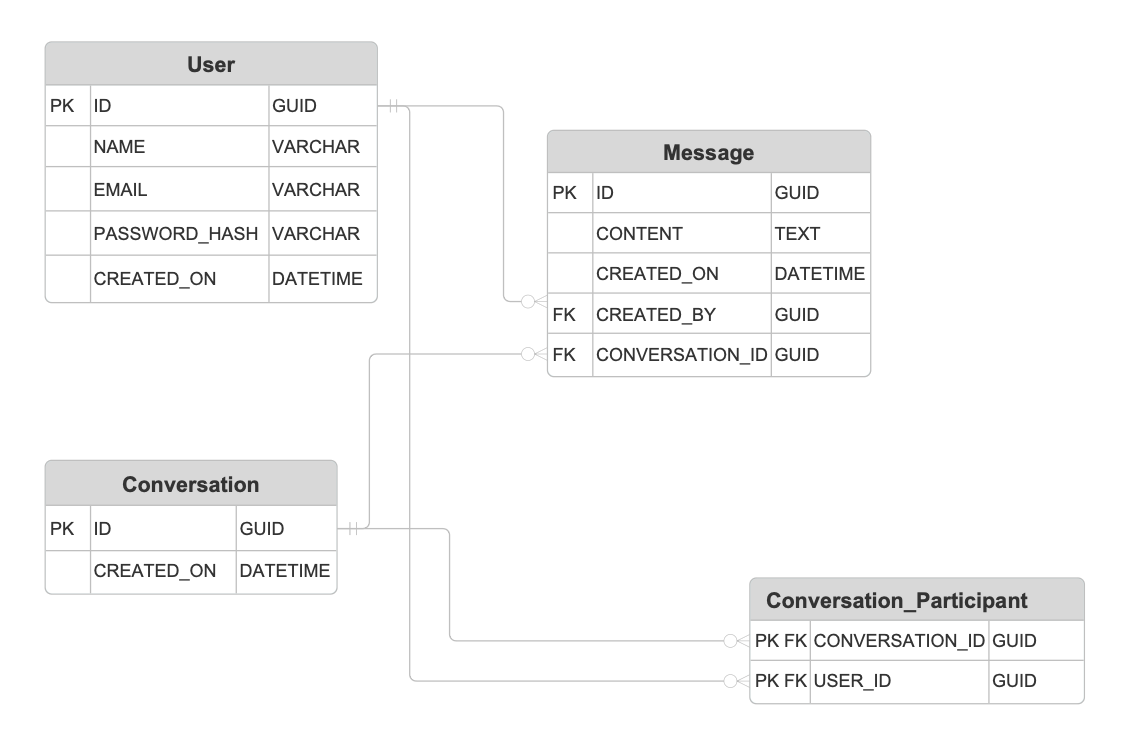
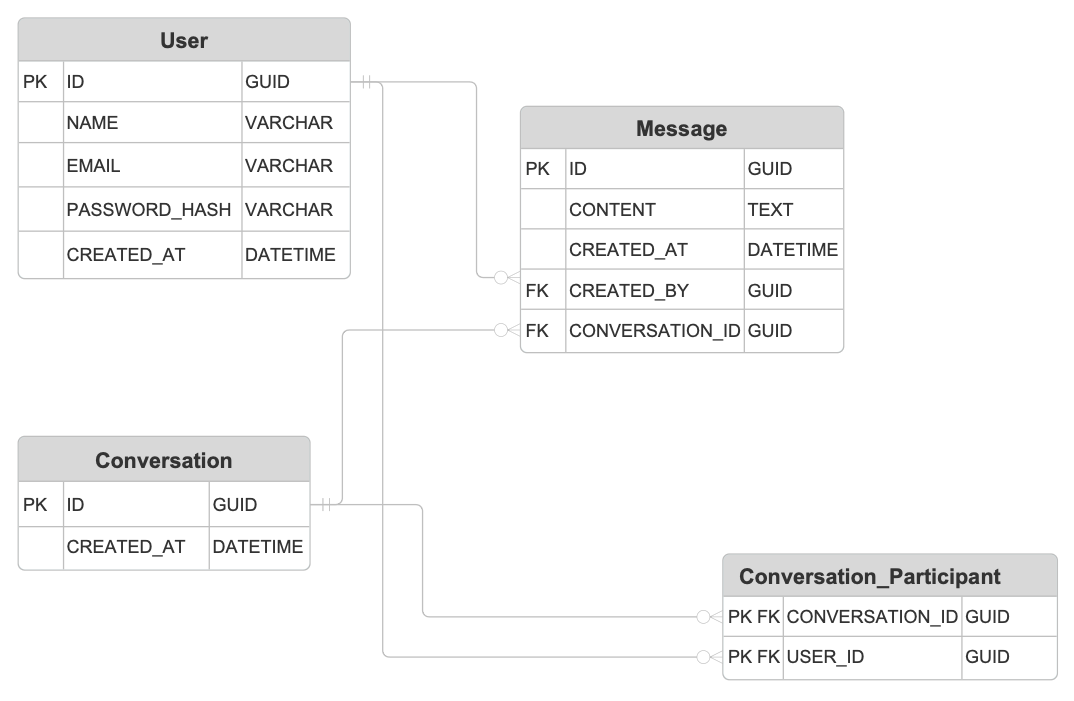
erd update / readme update

diff --git a/docs/database.md b/docs/database.md
@@ -10,7 +10,7 @@ V1 supports direct, one-to-one conversations only. Each conversation has exactly
 
 ## Logical Data Model
 
-![Teco V1 entity relationship diagram]//TODO: Create ER Diagram manually
+![Teco V1 entity relationship diagram](./ER-Diagram.png)
 
 ```mermaid
 flowchart LR
@@ -25,7 +25,13 @@ flowchart LR
     Conversation -->|"contains"| Message
 ```
 
-In plain language, the participant table is the join record between users and conversations. It keeps the V1 schema ready for the future possibility of more participants without pretending that V1 already has group chat.
+## Design Reasoning
+
+`ConversationParticipant` is the join record between users and conversations. A conversation therefore represents the chat itself, while its two participant records represent who is allowed to take part in it. This avoids assigning artificial `userId1` and `userId2` roles to the two people in a direct chat.
+
+Each message stores its conversation and its sender, rather than a receiver ID. In a one-to-one conversation, the receiver is the other participant. Storing a receiver on every message would duplicate membership data and could allow an inconsistent message whose receiver is not part of the conversation.
+
+The participant table also leaves a clear path to group chat later: a group conversation would add participant rows instead of requiring a different message structure. V1 still deliberately enforces exactly two participants per conversation.
 
 ## Tables
 
@@ -34,6 +40,7 @@ In plain language, the participant table is the join record between users and co
 | Column | Type | Rules | Purpose |
 | --- | --- | --- | --- |
 | `id` | UUID | Primary key | Identifies the user. |
+| `name` | String | Required | Display name shown in the chat UI. |
 | `email` | String | Required, unique | Used for login. |
 | `passwordHash` | String | Required | Stores a password hash, never the original password. |
 | `createdAt` | DateTime | Required | Creation timestamp. |
@@ -106,6 +113,7 @@ This is the intended V1 shape. It is a design reference; the actual `schema.pris
 ```prisma
 model User {
   id            String                    @id @default(uuid())
+  name          String
   email         String                    @unique
   passwordHash  String
   createdAt     DateTime                  @default(now())
